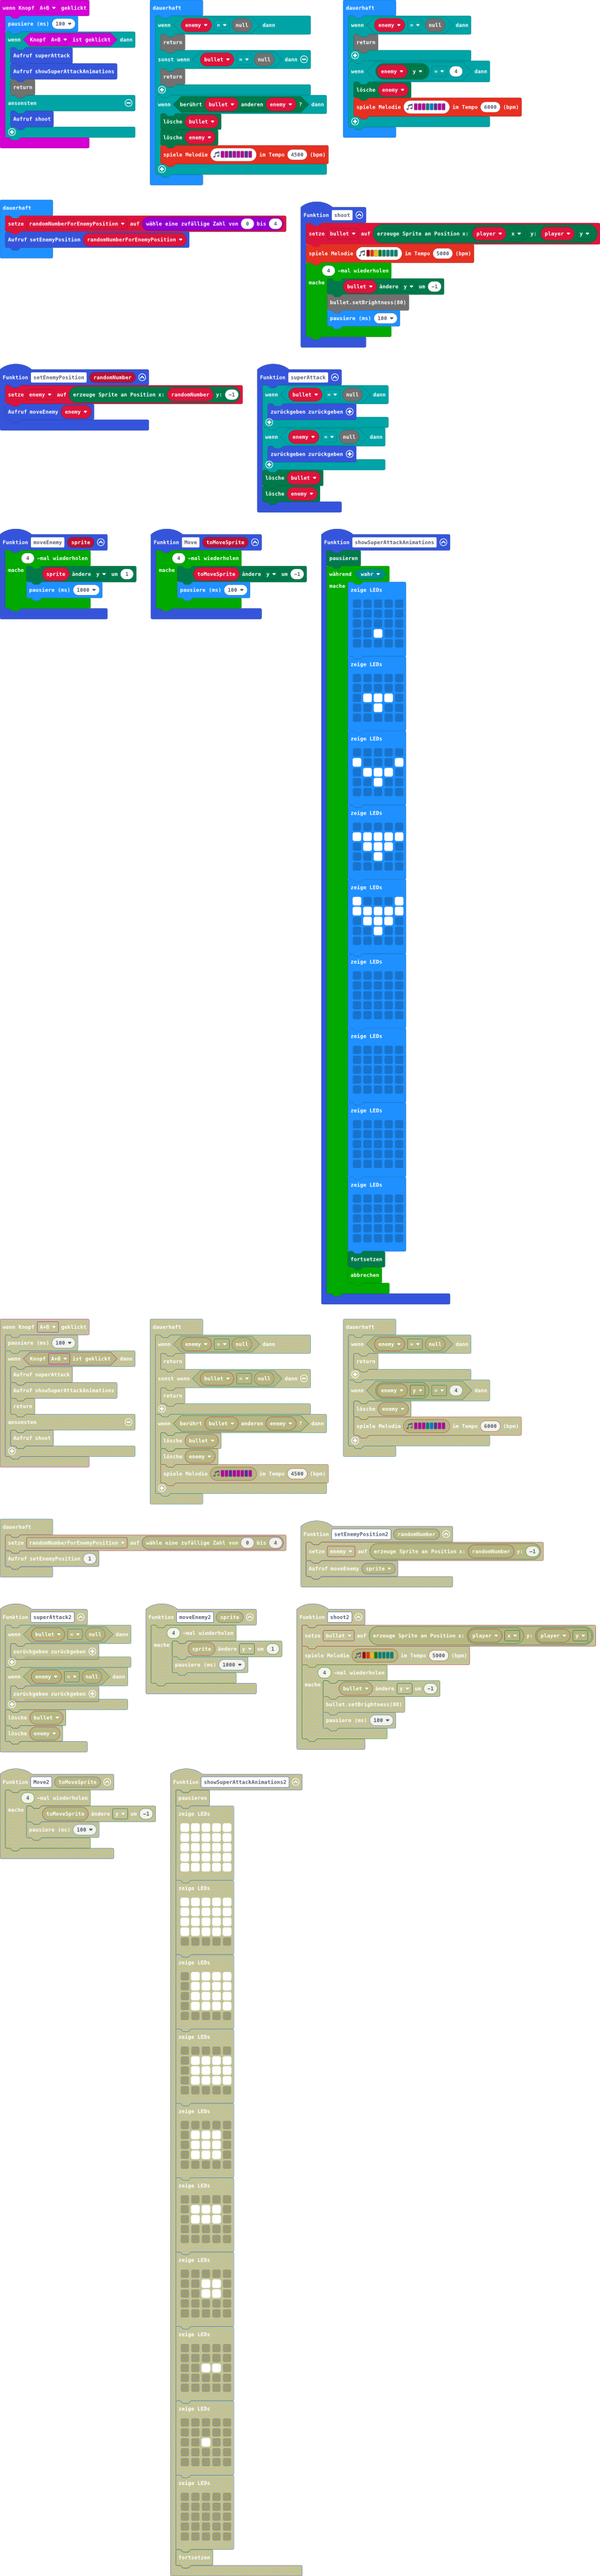
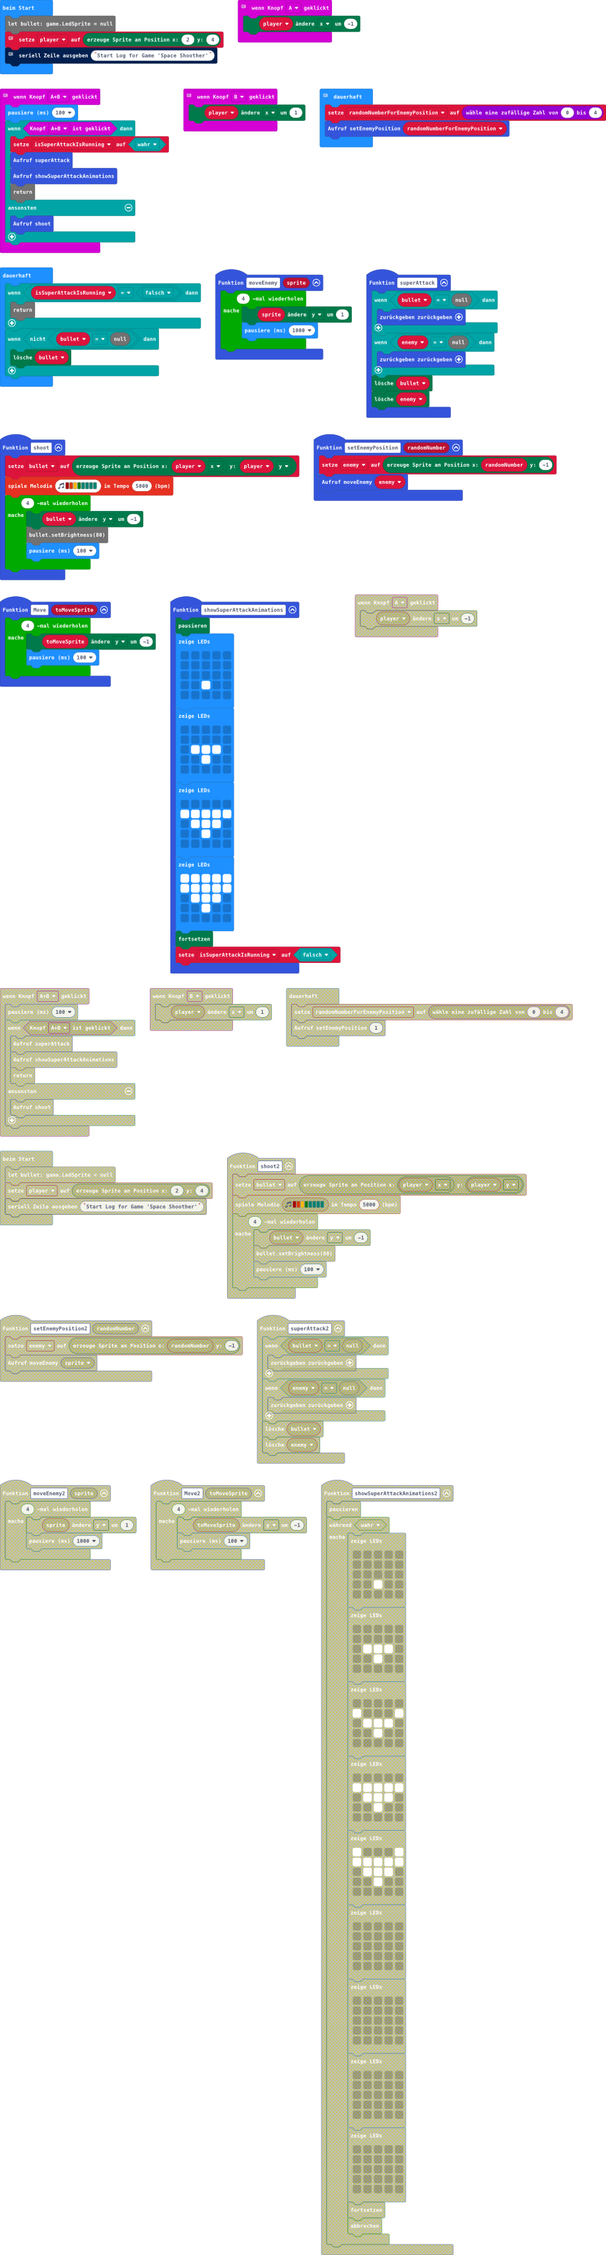
Aktualisiere main.blocks, main.ts

diff --git a/main.ts b/main.ts
@@ -1,75 +1,39 @@
+// Input for Button 'A'
 input.onButtonPressed(Button.A, function () {
     player.change(LedSpriteProperty.X, -1)
 })
 function showSuperAttackAnimations () {
     game.pause()
-    while (true) {
-        basic.showLeds(`
-            . . . . .
-            . . . . .
-            . . . . .
-            . . # . .
-            . . . . .
-            `)
-        basic.showLeds(`
-            . . . . .
-            . . . . .
-            . # # # .
-            . . # . .
-            . . . . .
-            `)
-        basic.showLeds(`
-            . . . . .
-            # . . . #
-            . # # # .
-            . . # . .
-            . . . . .
-            `)
-        basic.showLeds(`
-            . . . . .
-            # # # # #
-            . # # # .
-            . . # . .
-            . . . . .
-            `)
-        basic.showLeds(`
-            # . . . #
-            # # # # #
-            . # # # .
-            . . # . .
-            . . . . .
-            `)
-        basic.showLeds(`
-            . . . . .
-            . . . . .
-            . . . . .
-            . . . . .
-            . . . . .
-            `)
-        basic.showLeds(`
-            . . . . .
-            . . . . .
-            . . . . .
-            . . . . .
-            . . . . .
-            `)
-        basic.showLeds(`
-            . . . . .
-            . . . . .
-            . . . . .
-            . . . . .
-            . . . . .
-            `)
-        basic.showLeds(`
-            . . . . .
-            . . . . .
-            . . . . .
-            . . . . .
-            . . . . .
-            `)
-        game.resume()
-        break;
-    }
+    basic.showLeds(`
+        . . . . .
+        . . . . .
+        . . . . .
+        . . # . .
+        . . . . .
+        `)
+    basic.showLeds(`
+        . . . . .
+        . . . . .
+        . # # # .
+        . . # . .
+        . . . . .
+        `)
+    basic.showLeds(`
+        . . . . .
+        # # # # #
+        . # # # .
+        . . # . .
+        . . . . .
+        `)
+    basic.showLeds(`
+        # # # # #
+        # # # # #
+        . # # # .
+        . . # . .
+        . . . . .
+        `)
+    game.resume()
+    isSuperAttackIsRunning = false
 }
 function moveEnemy (sprite: game.LedSprite) {
     for (let index = 0; index < 4; index++) {
@@ -96,9 +60,11 @@ function superAttack () {
     bullet.delete()
     enemy.delete()
 }
+// Input for Button 'AB'
 input.onButtonPressed(Button.AB, function () {
     basic.pause(100)
     if (input.buttonIsPressed(Button.AB)) {
+        isSuperAttackIsRunning = true
         superAttack()
         showSuperAttackAnimations()
         return
@@ -106,6 +72,7 @@ input.onButtonPressed(Button.AB, function () {
         shoot()
     }
 })
+// Input for Button 'B'
 input.onButtonPressed(Button.B, function () {
     player.change(LedSpriteProperty.X, 1)
 })
@@ -121,22 +88,13 @@ function setEnemyPosition (randomNumber: number) {
 }
 let randomNumberForEnemyPosition = 0
 let enemy: game.LedSprite = null
+let isSuperAttackIsRunning = false
 let player: game.LedSprite = null
 let bullet: game.LedSprite = null
+// Create Player
 player = game.createSprite(2, 4)
+// Log
 serial.writeLine("Start Log for Game 'Space Shoother'")
-basic.forever(function () {
-    if (enemy == null) {
-        return
-    } else if (bullet == null) {
-        return
-    }
-    if (bullet.isTouching(enemy)) {
-        bullet.delete()
-        enemy.delete()
-        music.playMelody("C C D C C C D C ", 4500)
-    }
-})
 basic.forever(function () {
     if (enemy == null) {
         return
@@ -146,6 +104,7 @@ basic.forever(function () {
         music.playMelody("C C C F E D C C ", 6000)
     }
 })
+// Forever function for spawning Enemys with a random Position
 basic.forever(function () {
     randomNumberForEnemyPosition = randint(0, 4)
     setEnemyPosition(randomNumberForEnemyPosition)
@@ -156,5 +115,25 @@ basic.forever(function () {
     }
     if (bullet.get(LedSpriteProperty.Y) == 0) {
         bullet.delete()
+    }
+})
+basic.forever(function () {
+    if (isSuperAttackIsRunning == false) {
+        return
+    }
+    if (!(bullet == null)) {
+        bullet.delete()
+    }
+})
+basic.forever(function () {
+    if (enemy == null) {
+        return
+    } else if (bullet == null) {
+        return
+    }
+    if (bullet.isTouching(enemy)) {
+        bullet.delete()
+        enemy.delete()
+        music.playMelody("C C D C C C D C ", 4500)
     }
 })
